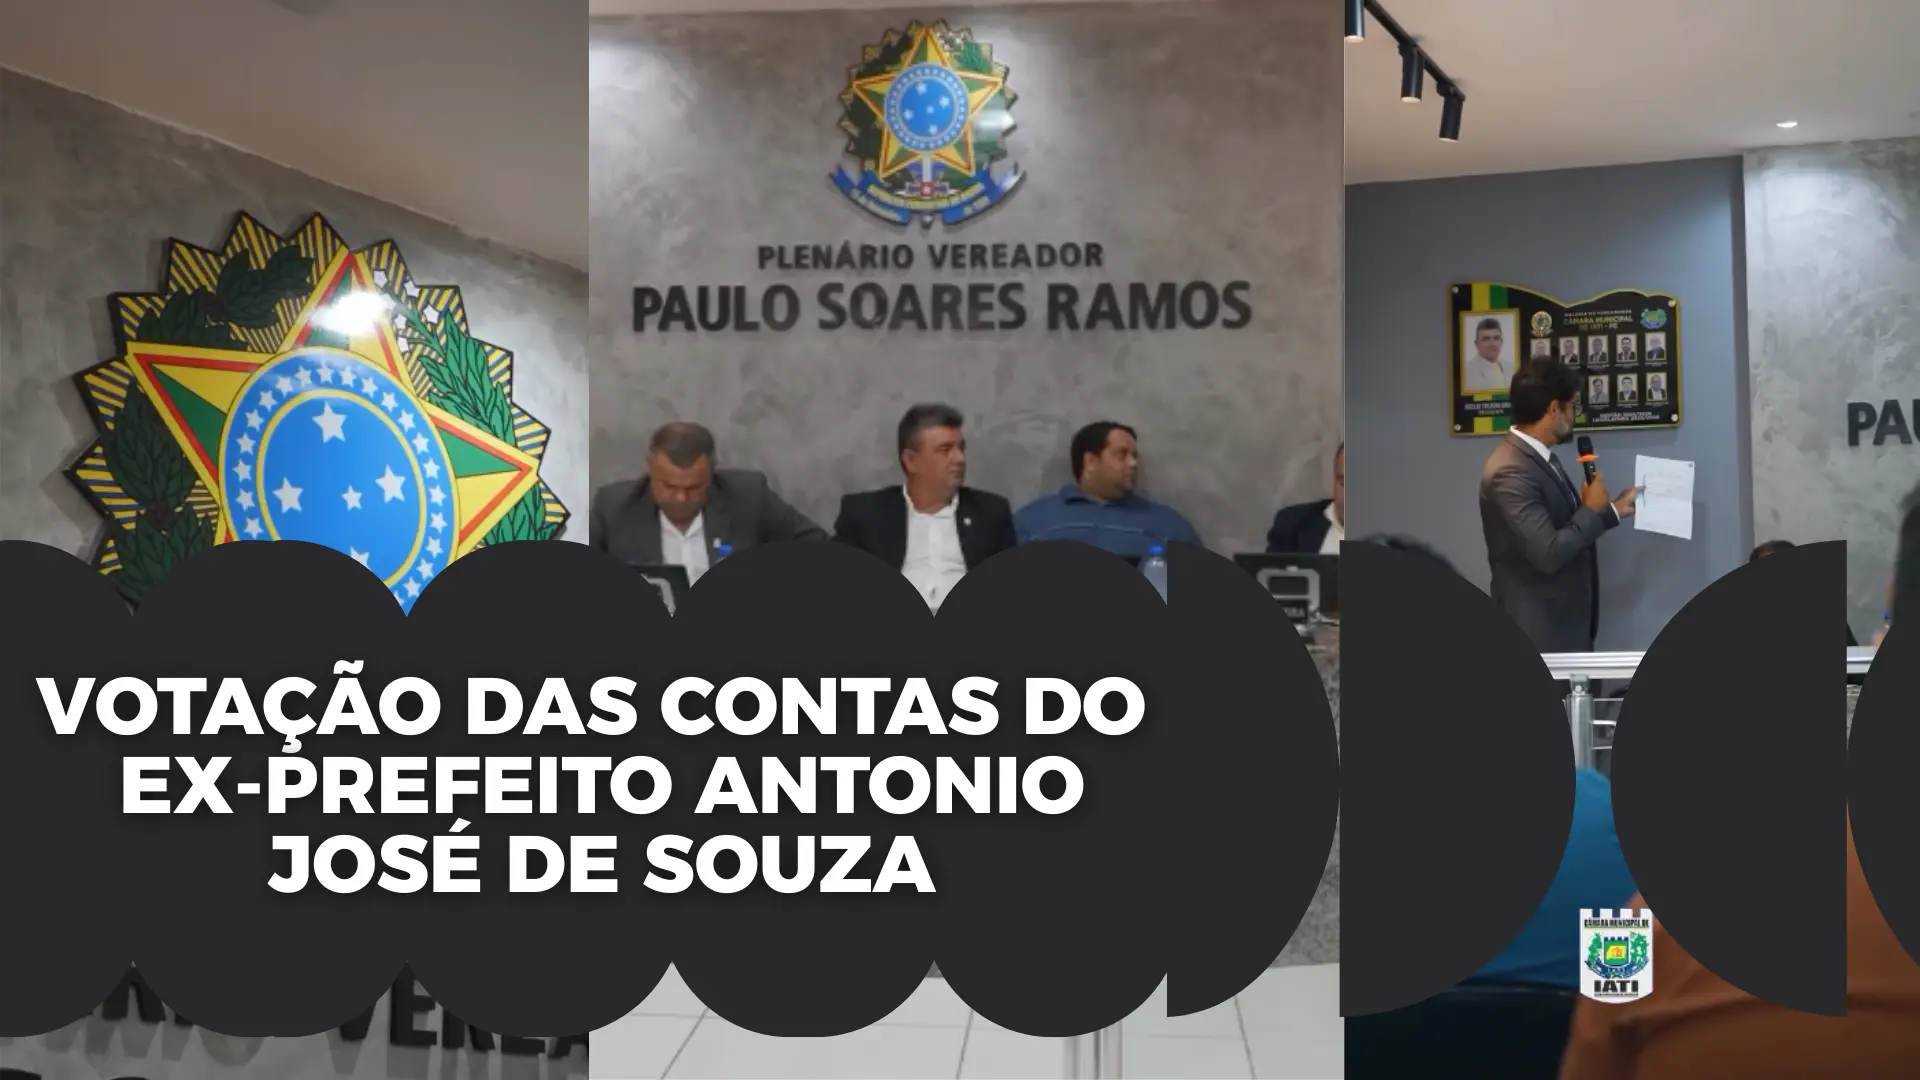
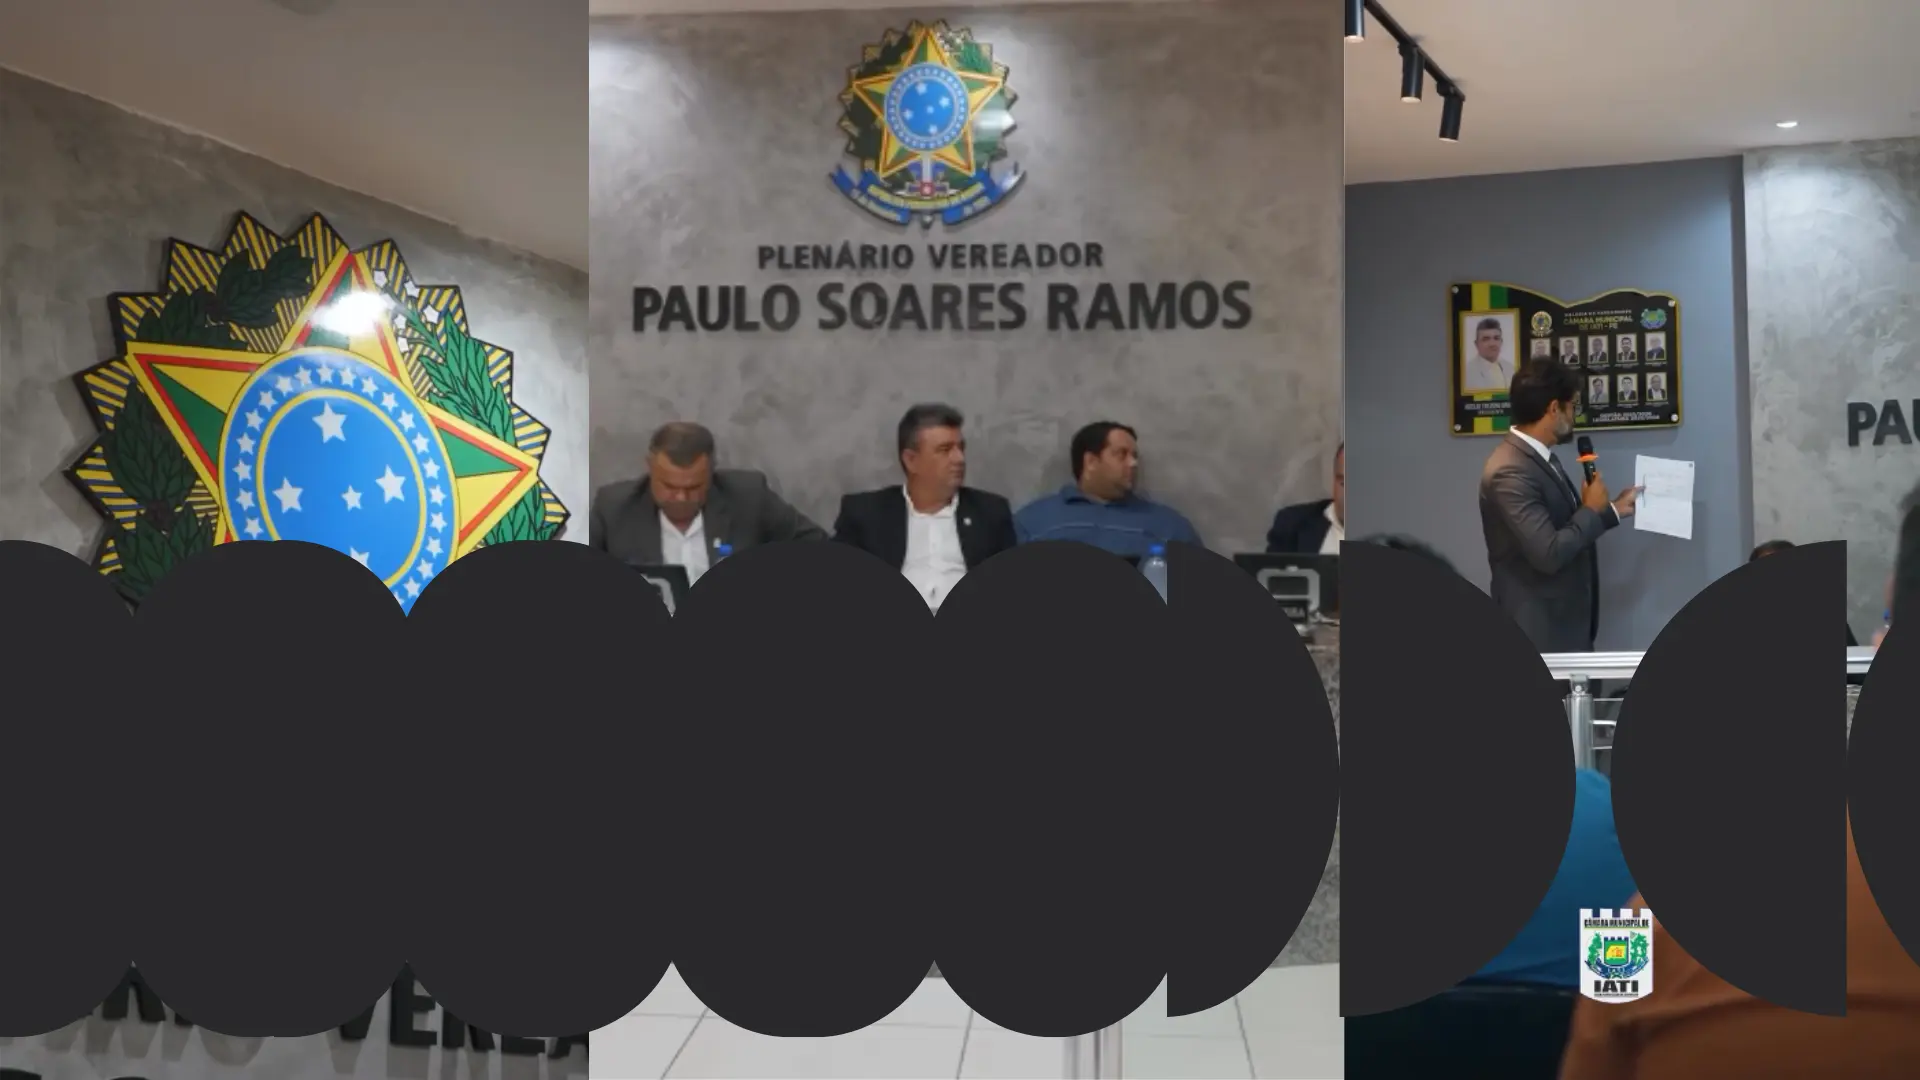
feat: updating page

Changed region(s): [[0.0, 0.6111, 0.5938, 0.825]]

diff --git a/src/components/News.tsx b/src/components/News.tsx
@@ -14,7 +14,15 @@ import instaOficial from '../assets/images/news/instaOficial.webp';
 import concursoOficial from '../assets/images/news/concursoOficial.webp';
 
 export default () => {
-  const images = [NewImage3, NewImage, NewImage2];
+  const slidesData = [
+    {
+      img: NewImage,
+      title: 'Reunião votação de contas',
+      desc: 'Votação das contas do ex-prefeito Antonio José de Souza',
+    },
+    { img: NewImage2, title: 'FUNVAPI concurso', desc: 'Veja as mudanças' },
+    { img: NewImage3, title: 'Evento em Destaque', desc: 'Confira o que aconteceu' },
+  ];
 
   const newsIati = [
     {
@@ -66,9 +74,20 @@ export default () => {
             }}
             className="h-[25rem]"
           >
-            {images.map((img, index) => (
-              <SwiperSlide key={index}>
-                <img src={img} className="w-full h-[25rem] object-cover" alt={`noticia-${index}`} />
+            {slidesData.map((item, index) => (
+              <SwiperSlide key={index} className="relative group overflow-hidden">
+                <img
+                  src={item.img}
+                  className="w-full h-[25rem] object-cover"
+                  alt={`noticia-${index}`}
+                />
+
+                <div className="absolute inset-0 bg-gradient-to-t from-black/80 via-transparent to-transparent"></div>
+
+                <div className="absolute bottom-0 left-0 p-6 text-white">
+                  <h2 className="text-2xl font-bold leading-tight">{item.title}</h2>
+                  <p className="text-md text-gray-200 mt-2">{item.desc}</p>
+                </div>
               </SwiperSlide>
             ))}
           </Swiper>
